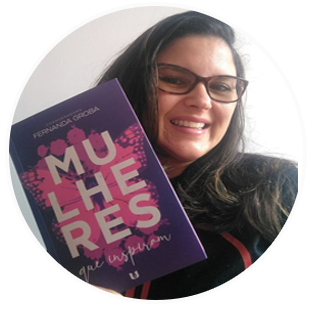
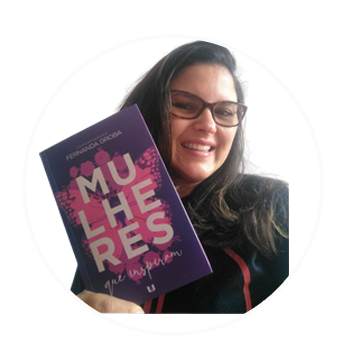
finalizado

diff --git a/index.html b/index.html
@@ -20,25 +20,28 @@
    <link href="https://fonts.googleapis.com/css2?family=Roboto+Condensed:ital@1&display=swap" rel="stylesheet">  
    <link rel="stylesheet" href="style.css">  
    <link rel="stylesheet" href="script.js">
+   <link rel="stylesheet" href="https://unpkg.com/aos@next/dist/aos.css" />
+
  
   <title>Mulheres</title>
 </head>
 <body>
    
   
-   <!-- header -->
-  <header class="container-fluid   ">
+   <!-- header --> 
+  <header class="container-fluid" data-aos="fade-up"  data-aos-duration="2000" data-aos-delay="200"
+  >
       <div class="row  justify-content-center align-items-center ">
           <div class="col- text-center mt-3 "> <div class="subtitulonome mt-3 animartitulo" ><strong>Descubra o poder que existe dentro de você.</strong></div></div>
           <div class="subtitulonomeas15 text-back animarsubtitulo"> <em>As 15 mulheres que você precisa conhecer para transformar sua vida.</em></div>
-         <div class="col  text-center  mt-4   "><img class="tamanhoimglogo text-center " src="topobg.png" alt=""></div>
+         <div class="col  text-center  mt-4   "><img class="tamanhoimglogo text-center img-fluid" src="foto original.jfif" alt=""></div>
         
       </div>
    </header>
 
 
    <!-- Icone beneficios -->
-   <div class="container">
+   <div class="container" data-aos="fade-up"  data-aos-duration="2000">
       <div class="row mt-2  text-center">
          <div class="col-sm  mt-4"><i class="bi bi-phone  tamanhoicons "></i><div class="tituloicons">Leia quando quiser</div><div class="subtitulo mt-2 ">Com o livro digital você pode ler no local que mais te agrada sem ter que carregar peso desnecessário.</div></div>
          <div class="col-sm text-center  mt-4"><i class="bi bi-alarm  tamanhoicons"> <div class="tituloicons">Entrega imediata</div><div class="subtitulo mt-2 "> Após efetuar a compra você recebe o livro imediatamente.</div></i></div>
@@ -50,7 +53,7 @@
 
 
     <!-- Chamada pra ação -->
-    <div class="container-fluid  ">
+    <div class="container-fluid  " data-aos="fade-up"  data-aos-duration="2000" data-aos-delay="200">
       <div class="row mt-3 justify-content-center">
 
        <button class="btn btn-sucess mb-3 "> <a href="https://amzn.to/2XyVUqd">Comprar Agora</a></button>
@@ -59,7 +62,7 @@
 
 
   <!-- Benefícios do livro-->
-   <div class="container-fluid ">
+   <div class="container-fluid " data-aos="fade-up"  data-aos-duration="2000" data-aos-delay="200">
       <div class="row">
          <div class="col ">
             <img class="img-fluid" src="Tablet.png" alt="">
@@ -78,7 +81,7 @@
 
    <!-- Depoimentos -->
 
-   <div class="container-fluid ">
+   <div class="container-fluid " data-aos="fade-up"  data-aos-duration="2000" data-aos-delay="200">
       <div class="row">
          <div class="col">
             <div class="titulodepoimento mt-3">O que as pessoas estão falando? </div>
@@ -96,7 +99,7 @@
          
             <img class="imgdepoimento text-center mt-3 img-fluid" src="depoimento2.png" alt="">
             <div class="text-center nomedepoimento">Suely Santana</div>
-            <div class="depoimento text-center"> "Assim como este livro me motivou a escrever o meu livro, que será lançado em breve. Recomendo demais a leitura desse livro." </div>
+            <div class="depoimento text-center"> "Por ser um livro que  me motivou a escrever o meu livro, que será lançado em breve. Recomendo demais a leitura desse livro." </div>
      
          </div>
 
@@ -105,7 +108,7 @@
          
             <img class="imgdepoimento text-center mt-3 img-fluid" src="depoimento3.png" alt="">
             <div class="text-center nomedepoimento">Carla Aguiar</div>
-            <div class="depoimento text-center"> "Muito maravilhosa as experiências divididas nesse livro, qauntoas mulheres guerreiras e fortes, abençoadas de Deus." </div>
+            <div class="depoimento text-center"> "Muito maravilhosa as experiências divididas nesse livro, quantas mulheres guerreiras e fortes, abençoadas de Deus." </div>
      
          </div>
       </div>
@@ -113,7 +116,7 @@
    </div>
 
    <!-- Chamada pra ação -->
-   <div class="container-fluid  ">
+   <div class="container-fluid  " data-aos="fade-up"  data-aos-duration="2000" data-aos-delay="200">
       <div class="row mt-3 justify-content-center">
 
        <button class="btn btn-sucess mb-3 "> <a href="https://amzn.to/2XyVUqd">Comprar Agora</a></button>
@@ -137,5 +140,9 @@
 
 
    <script src="https://cdn.jsdelivr.net/npm/bootstrap@5.1.3/dist/js/bootstrap.bundle.min.js" integrity="sha384-ka7Sk0Gln4gmtz2MlQnikT1wXgYsOg+OMhuP+IlRH9sENBO0LRn5q+8nbTov4+1p" crossorigin="anonymous"></script>
+   <script src="https://unpkg.com/aos@next/dist/aos.js"></script>
+   <script>
+     AOS.init();
+   </script>
 </body>
 </html>

diff --git a/style.css b/style.css
@@ -11,7 +11,7 @@ Itens individuais na vertical --> align-self-center
 }
 
 .tamanhoimglogo {
-  height: 400px;
+
 }
 
 .subtitulonomeas15 {
@@ -138,7 +138,7 @@ a:hover {
 }
 
 
-/* animações */
+/* animações
 
 .animartitulo{
   animation-name: slide;
@@ -159,3 +159,4 @@ a:hover {
     opacity:1;
   }
 }
+ */
